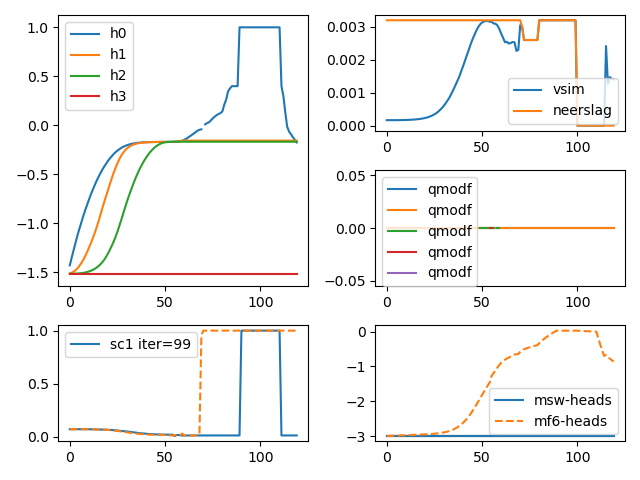
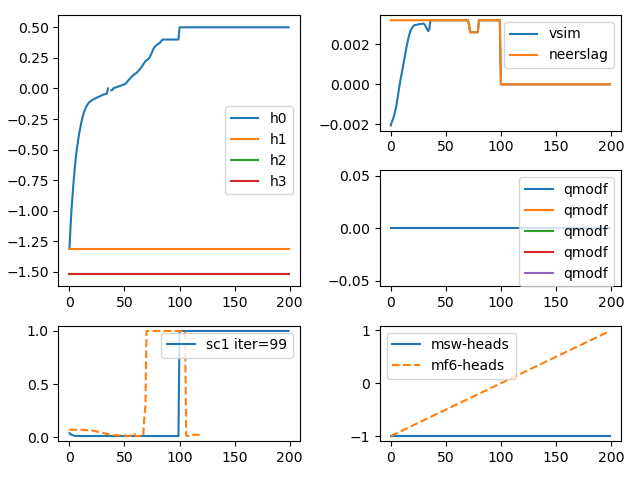
add stand alone testmodel

diff --git a/src/mf6_simulation.py b/src/mf6_simulation.py
@@ -207,6 +207,83 @@ class CoupledExperimentalSimulation(Simulation):
         self.log.evap_soil[self.iperiod] = self.msw.evap_soil
         self.log.evap_pond[self.iperiod] = self.msw.evap_ponding
 
+
+class NonCoupledExperimentalSimulation:
+    """
+    Run all stress periods in a simulation
+    """
+
+    def __init__(self, msw_parameters: dict):
+        self.mf6_head = np.ones(5) * msw_parameters["initial_gwl"]
+        self.mf6_sto = np.ones(5) * 0.001
+        self.mf6_rch = np.zeros(1)
+        self.mf6_sof_elev = np.zeros(1)
+        self.mf6_sof_cond = np.ones(1)
+        self.msw = MegaSwapExperimental(msw_parameters)
+        self.log = Logging(msw_parameters["qrch"].size)
+        self.iperiod = 0
+        sof_cond, sof_elev = self.msw.get_sof_parameters()
+        self.mf6_sof_cond[0] = sof_cond
+        self.mf6_sof_elev[0] = sof_elev
+        self.log.qrch_init = np.copy(msw_parameters["qrch"])
+        self.log.qrch = np.zeros_like(self.log.qrch_init)
+
+
+    def update(self):
+        qmv_old = np.copy(self.msw.unsaturated_zone.qmv)
+        vsim, sc1 = self.msw.prepare_timestep(self.iperiod, self.mf6_head[0])
+        self.msw.unsaturated_zone.qmv = np.copy(qmv_old)
+        self.mf6_rch[:] = vsim
+        self.mf6_sto[0] = sc1
+        mf6_head_old = np.copy(self.mf6_head[0])
+        qmodf = 0.0
+        # Convergence loop
+        for iter in range(1, 2):
+            if iter < 6:
+                vsim, sc1 = self.msw.do_iter(self.iperiod, self.mf6_head[0])
+                self.msw.unsaturated_zone.qmv = np.copy(qmv_old) # reset qmv inside loop
+                self.mf6_rch[:] = vsim
+                self.mf6_sto[0] = sc1
+            has_converged = True
+            nbox = self.msw.unsaturated_zone.non_submerged_boxes.size
+            self.log_exchange_vars(iter -1, nbox, iter, qmodf, vsim)
+            if has_converged:
+                break
+        qmodf = ((self.mf6_head[0] - mf6_head_old) * sc1) - (vsim)
+        self.msw.finalise_timestep(self.mf6_head[0], qmodf, True)
+        self.log_exchange_vars(99, nbox, iter, qmodf, vsim)
+        self.iperiod += 1
+        self.mf6_head[0] += 0.01
+        return self.iperiod
+    
+    def run(self, periods):
+        iperiod = 0
+        while iperiod < periods:
+            iperiod = self.update()
+        print(f"Simulation terminated normally for {periods} periods")
+
+    def log_exchange_vars(self, iter, nbox, niter, qmodf, vsim) -> None:
+        self.log.sc1[self.iperiod, iter] = self.mf6_sto[0]
+        self.log.msw_head[self.iperiod, iter] = self.msw.storage_formulation.gwl_table
+        self.log.mf6_head[self.iperiod, iter] = self.mf6_head[0]
+        self.log.qmodf[self.iperiod, iter] = qmodf
+        self.log.phead[self.iperiod, :] = self.msw.unsaturated_zone.phead
+        self.log.nbox[self.iperiod] = nbox
+        self.log.vsim[self.iperiod] = vsim
+        self.log.s[self.iperiod] = self.msw.storage_formulation.s
+        self.log.s_old[self.iperiod] = self.msw.storage_formulation.s_old
+        self.log.niter[self.iperiod] = niter
+        self.log.ds[self.iperiod, iter] = self.msw.ds
+        self.log.qmv[self.iperiod, iter, 0:4] = self.msw.unsaturated_zone.qmv[0:4]
+        self.log.qrun[self.iperiod] = self.msw.qrun
+        self.log.vpond[self.iperiod] = self.msw.ponding.volume
+        self.log.qmax[self.iperiod] = self.msw.qmax
+        self.log.qrch[self.iperiod] = self.msw.qrch[self.iperiod]
+        self.log.evap_soil[self.iperiod] = self.msw.evap_soil
+        self.log.evap_pond[self.iperiod] = self.msw.evap_ponding
+
+
+
 def run_coupled_model(periods, mf6_parameters: dict, msw_parameters: dict):
     wdir = mf6_parameters["workdir"]
     name = mf6_parameters["model_name"]
@@ -221,4 +298,9 @@ def run_experimental_coupled_model(periods, mf6_parameters: dict, msw_parameters
     sim = CoupledExperimentalSimulation(wdir, name, msw_parameters)
     sim.run(periods)
     sim.finalize()
+    return sim.msw, sim.log
+
+def run_experimental_non_coupled_model(periods, msw_parameters: dict):
+    sim = NonCoupledExperimentalSimulation(msw_parameters)
+    sim.run(periods)
     return sim.msw, sim.log

diff --git a/run_non_coupled.py b/run_non_coupled.py
@@ -1,0 +1,35 @@
+import numpy as np
+from src.mf6_simulation import run_experimental_non_coupled_model
+from scripts.plot_coupled_results import plot_results, plot_combined_results
+
+# msw inputs
+qrch = np.array([0.0045] * 60 + [0.0026] * 20 + [0.0032] * 20+ [0.000] * 100)   # 0.36
+qpet = np.ones_like(qrch) * 0.001
+# qrch = np.array([0.0026]*30 + [0.0]*10 + [0.0032]*30 + [0.0026]*50)
+
+msw_parameters = {
+    "databse_path": r"c:\werkmap\coupler_model\metaswap_a\unsa_001.nc",
+    "rootzone_dikte": 1.0,
+    "qrch": qrch,
+    "qpet": qpet,
+    "surface_elevation": 0.0,
+    "initial_gwl": -1.0,
+    "initial_phead": -1.513561,  # -(0 - -6.9)
+    "dtgw": 1.0,
+    "area": 100.0,
+    "max_infiltration": 0.0032, # 0.0036 
+}
+
+# mf6 inputs
+mf6_parameters = {
+    "workdir": r"c:\src\MegaSWAP\mf6_model",
+    "model_name": "model",
+}
+
+# chek s_mf6
+ntime = 200 # 120
+# megaswap, log = run_coupled_model(ntime, mf6_parameters, msw_parameters)
+megaswap, log = run_experimental_non_coupled_model(ntime, msw_parameters)
+
+plot_results(log, megaswap, ntime)
+# plot_combined_results(log, megaswap, r'c:\werkmap\coupler_model', ntime)
